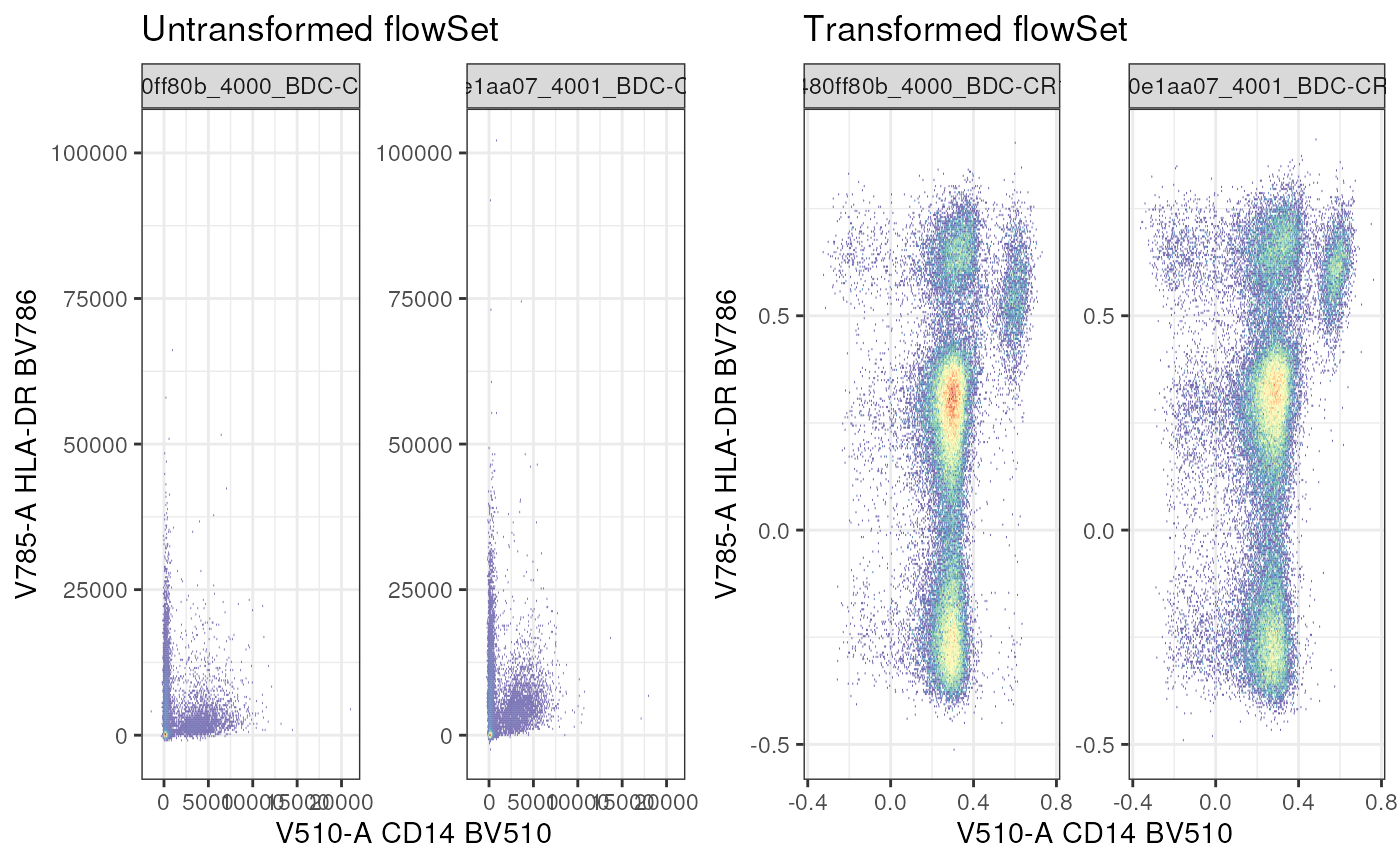
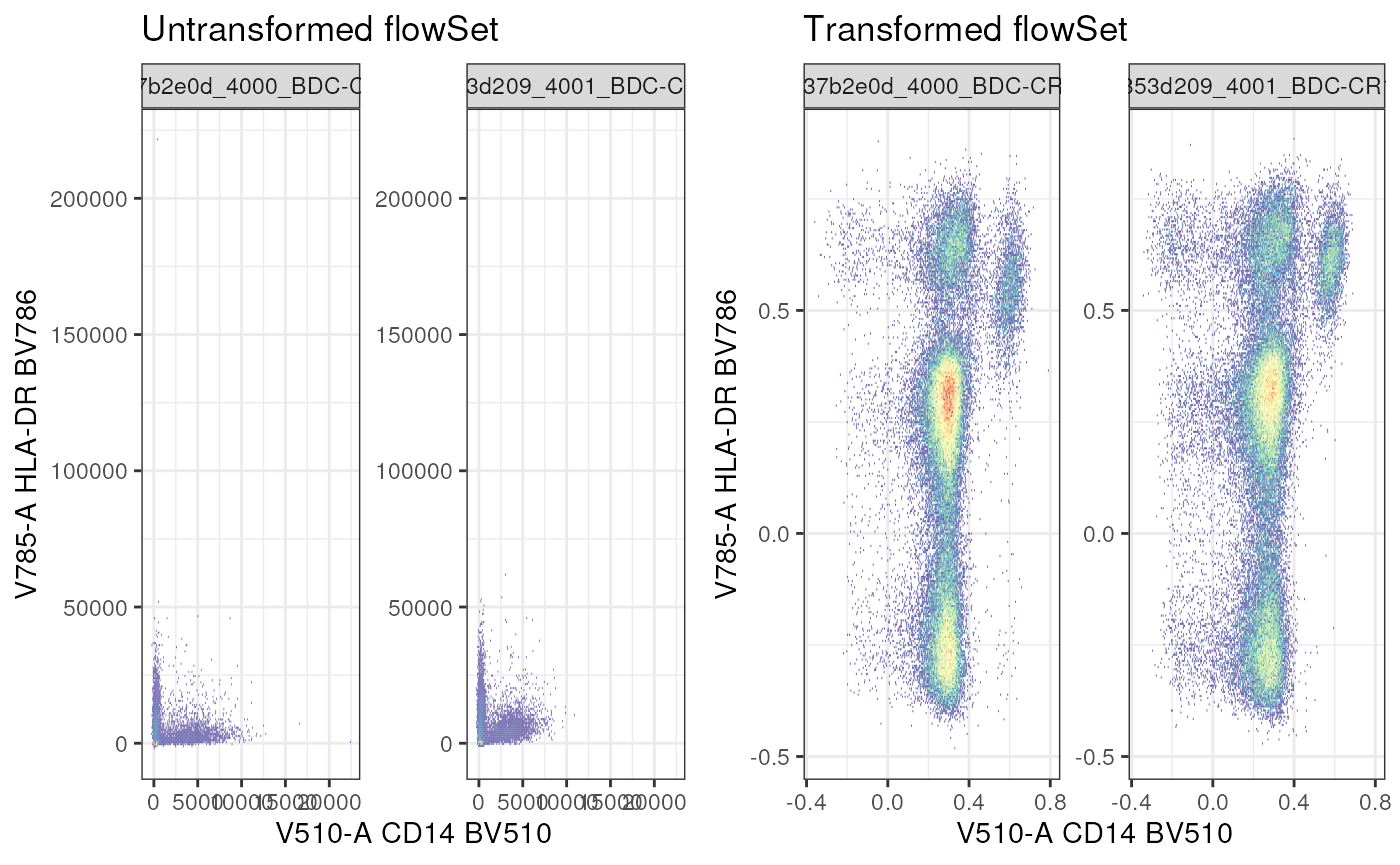
Deploying to gh-pages from @ OzetteTech/cytoverse-bioc-2023@64447248f4acc228d24820704bf2a34dea2f067c 🚀

diff --git a/articles/Import_fcs.html b/articles/Import_fcs.html
@@ -465,31 +465,31 @@ dataframe should match the <code>sampleNames</code> of the
 <span><span class="co"># prior to providing metadata</span></span>
 <span><span class="fu"><a href="https://rdrr.io/pkg/Biobase/man/phenoData.html" class="external-link">pData</a></span><span class="op">(</span><span class="va">fs</span><span class="op">)</span></span></code></pre></div>
 <pre><code><span><span class="co">##                                                      name</span></span>
-<span><span class="co">## 4e9480ff80b_4000_BDC-CR1.fcs 4e9480ff80b_4000_BDC-CR1.fcs</span></span>
-<span><span class="co">## 4e95e745e2_4000_TNK-CR1.fcs   4e95e745e2_4000_TNK-CR1.fcs</span></span>
-<span><span class="co">## 4e970e1aa07_4001_BDC-CR1.fcs 4e970e1aa07_4001_BDC-CR1.fcs</span></span>
-<span><span class="co">## 4e974e5c123_4001_TNK-CR1.fcs 4e974e5c123_4001_TNK-CR1.fcs</span></span>
-<span><span class="co">## 4e93b43bf40_4002_TNK-CR1.fcs 4e93b43bf40_4002_TNK-CR1.fcs</span></span>
-<span><span class="co">## 4e9b331cb8_4003_TNK-CR1.fcs   4e9b331cb8_4003_TNK-CR1.fcs</span></span></code></pre>
+<span><span class="co">## 4eb337b2e0d_4000_BDC-CR1.fcs 4eb337b2e0d_4000_BDC-CR1.fcs</span></span>
+<span><span class="co">## 4eb73203882_4000_TNK-CR1.fcs 4eb73203882_4000_TNK-CR1.fcs</span></span>
+<span><span class="co">## 4eb353d209_4001_BDC-CR1.fcs   4eb353d209_4001_BDC-CR1.fcs</span></span>
+<span><span class="co">## 4eb50188c30_4001_TNK-CR1.fcs 4eb50188c30_4001_TNK-CR1.fcs</span></span>
+<span><span class="co">## 4eb397668c0_4002_TNK-CR1.fcs 4eb397668c0_4002_TNK-CR1.fcs</span></span>
+<span><span class="co">## 4eb4a297572_4003_TNK-CR1.fcs 4eb4a297572_4003_TNK-CR1.fcs</span></span></code></pre>
 <div class="sourceCode" id="cb46"><pre class="downlit sourceCode r">
 <code class="sourceCode R"><span><span class="co"># add metadata </span></span>
 <span><span class="fu"><a href="https://rdrr.io/pkg/Biobase/man/phenoData.html" class="external-link">pData</a></span><span class="op">(</span><span class="va">fs</span><span class="op">)</span> <span class="op">&lt;-</span> <span class="va">metadata</span></span>
 <span></span>
 <span><span class="fu"><a href="https://rdrr.io/pkg/Biobase/man/phenoData.html" class="external-link">pData</a></span><span class="op">(</span><span class="va">fs</span><span class="op">)</span></span></code></pre></div>
 <pre><code><span><span class="co">##                              Treatment         panel</span></span>
-<span><span class="co">## 4e9480ff80b_4000_BDC-CR1.fcs   Treated Myeloid Panel</span></span>
-<span><span class="co">## 4e95e745e2_4000_TNK-CR1.fcs  Untreated  T Cell Panel</span></span>
-<span><span class="co">## 4e970e1aa07_4001_BDC-CR1.fcs   Treated Myeloid Panel</span></span>
-<span><span class="co">## 4e974e5c123_4001_TNK-CR1.fcs Untreated  T Cell Panel</span></span>
-<span><span class="co">## 4e93b43bf40_4002_TNK-CR1.fcs Untreated  T Cell Panel</span></span>
-<span><span class="co">## 4e9b331cb8_4003_TNK-CR1.fcs    Treated  T Cell Panel</span></span>
+<span><span class="co">## 4eb337b2e0d_4000_BDC-CR1.fcs Untreated Myeloid Panel</span></span>
+<span><span class="co">## 4eb73203882_4000_TNK-CR1.fcs Untreated  T Cell Panel</span></span>
+<span><span class="co">## 4eb353d209_4001_BDC-CR1.fcs    Treated Myeloid Panel</span></span>
+<span><span class="co">## 4eb50188c30_4001_TNK-CR1.fcs Untreated  T Cell Panel</span></span>
+<span><span class="co">## 4eb397668c0_4002_TNK-CR1.fcs   Treated  T Cell Panel</span></span>
+<span><span class="co">## 4eb4a297572_4003_TNK-CR1.fcs   Treated  T Cell Panel</span></span>
 <span><span class="co">##                                                      name</span></span>
-<span><span class="co">## 4e9480ff80b_4000_BDC-CR1.fcs 4e9480ff80b_4000_BDC-CR1.fcs</span></span>
-<span><span class="co">## 4e95e745e2_4000_TNK-CR1.fcs   4e95e745e2_4000_TNK-CR1.fcs</span></span>
-<span><span class="co">## 4e970e1aa07_4001_BDC-CR1.fcs 4e970e1aa07_4001_BDC-CR1.fcs</span></span>
-<span><span class="co">## 4e974e5c123_4001_TNK-CR1.fcs 4e974e5c123_4001_TNK-CR1.fcs</span></span>
-<span><span class="co">## 4e93b43bf40_4002_TNK-CR1.fcs 4e93b43bf40_4002_TNK-CR1.fcs</span></span>
-<span><span class="co">## 4e9b331cb8_4003_TNK-CR1.fcs   4e9b331cb8_4003_TNK-CR1.fcs</span></span></code></pre>
+<span><span class="co">## 4eb337b2e0d_4000_BDC-CR1.fcs 4eb337b2e0d_4000_BDC-CR1.fcs</span></span>
+<span><span class="co">## 4eb73203882_4000_TNK-CR1.fcs 4eb73203882_4000_TNK-CR1.fcs</span></span>
+<span><span class="co">## 4eb353d209_4001_BDC-CR1.fcs   4eb353d209_4001_BDC-CR1.fcs</span></span>
+<span><span class="co">## 4eb50188c30_4001_TNK-CR1.fcs 4eb50188c30_4001_TNK-CR1.fcs</span></span>
+<span><span class="co">## 4eb397668c0_4002_TNK-CR1.fcs 4eb397668c0_4002_TNK-CR1.fcs</span></span>
+<span><span class="co">## 4eb4a297572_4003_TNK-CR1.fcs 4eb4a297572_4003_TNK-CR1.fcs</span></span></code></pre>
 <p>The benefit of having metadata is that we can use many of the
 sub-setting operations in a metadata specific manner.</p>
 <p><em>Note</em>: Many of the sub-setting operation for
@@ -511,11 +511,11 @@ full set of files.</p>
 <div class="sourceCode" id="cb50"><pre class="downlit sourceCode r">
 <code class="sourceCode R"><span><span class="fu"><a href="https://rdrr.io/pkg/Biobase/man/phenoData.html" class="external-link">pData</a></span><span class="op">(</span><span class="va">fs_myeloid</span><span class="op">)</span></span></code></pre></div>
 <pre><code><span><span class="co">##                              Treatment         panel</span></span>
-<span><span class="co">## 4e9480ff80b_4000_BDC-CR1.fcs   Treated Myeloid Panel</span></span>
-<span><span class="co">## 4e970e1aa07_4001_BDC-CR1.fcs   Treated Myeloid Panel</span></span>
+<span><span class="co">## 4eb337b2e0d_4000_BDC-CR1.fcs Untreated Myeloid Panel</span></span>
+<span><span class="co">## 4eb353d209_4001_BDC-CR1.fcs    Treated Myeloid Panel</span></span>
 <span><span class="co">##                                                      name</span></span>
-<span><span class="co">## 4e9480ff80b_4000_BDC-CR1.fcs 4e9480ff80b_4000_BDC-CR1.fcs</span></span>
-<span><span class="co">## 4e970e1aa07_4001_BDC-CR1.fcs 4e970e1aa07_4001_BDC-CR1.fcs</span></span></code></pre>
+<span><span class="co">## 4eb337b2e0d_4000_BDC-CR1.fcs 4eb337b2e0d_4000_BDC-CR1.fcs</span></span>
+<span><span class="co">## 4eb353d209_4001_BDC-CR1.fcs   4eb353d209_4001_BDC-CR1.fcs</span></span></code></pre>
 <p>Below is an example of <code>cytoset</code> sub-setting which also
 highlights how the operations performed on <code>cytoset</code> affects
 the underlying data.</p>
